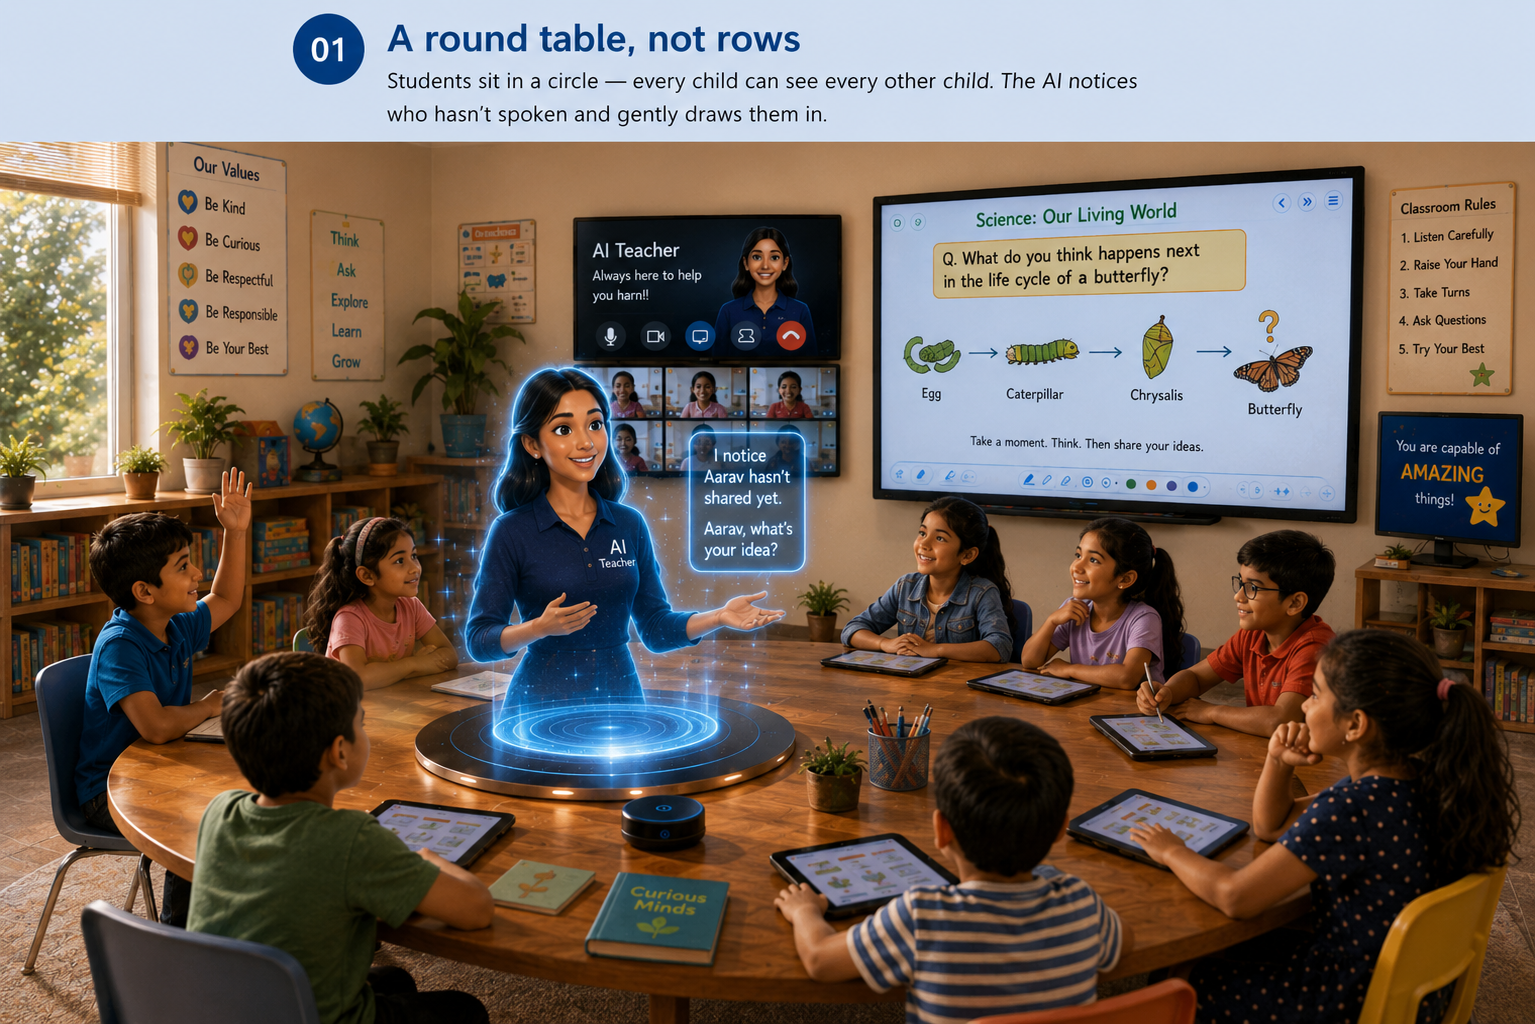
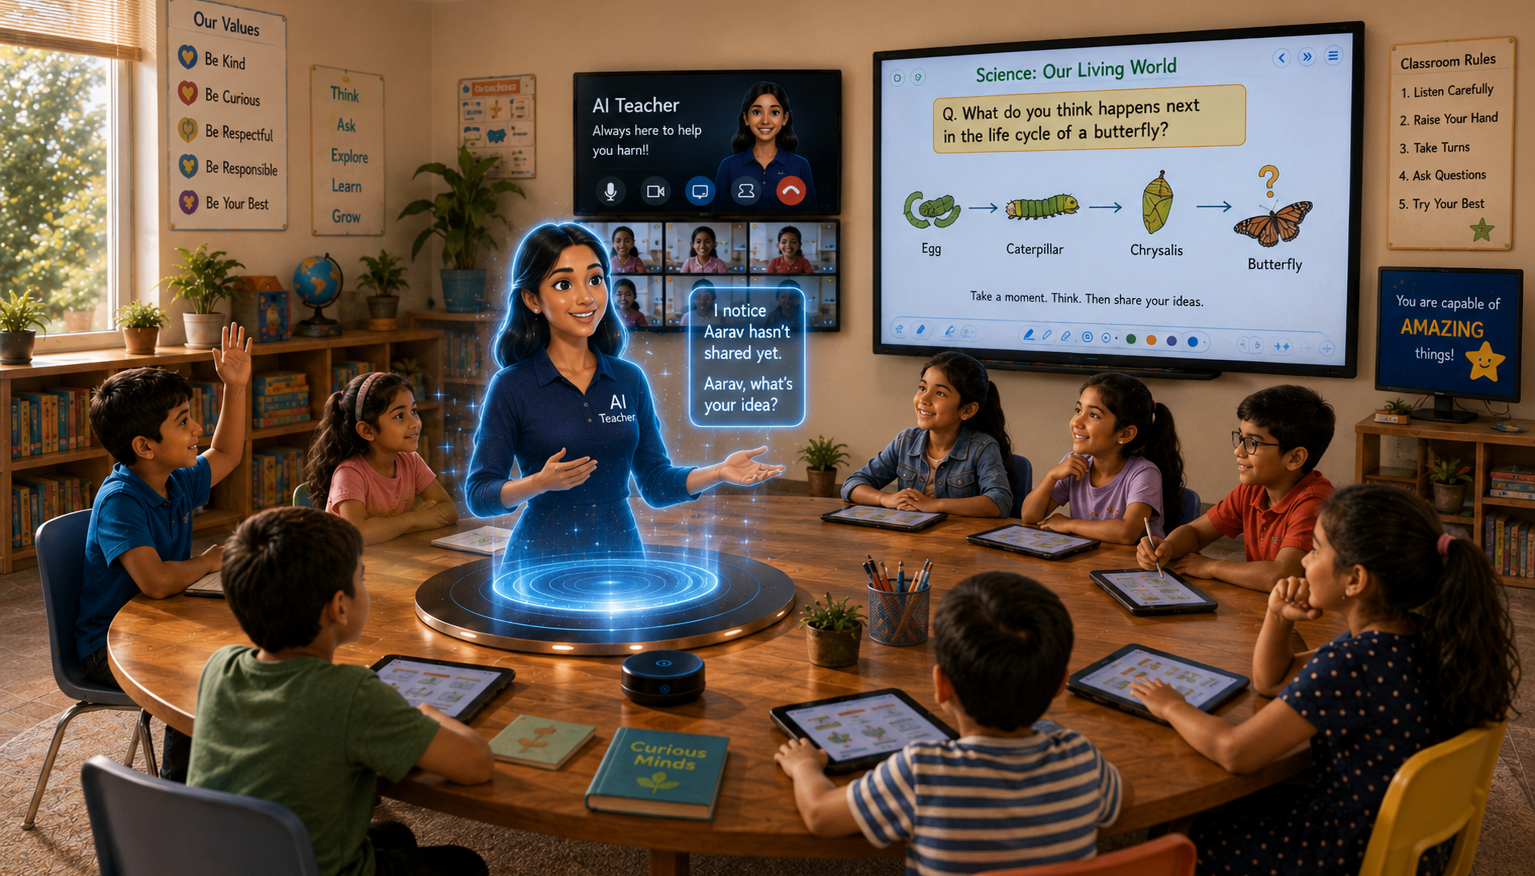
ai guru

diff --git a/app/globals.css b/app/globals.css
@@ -108,7 +108,7 @@ nav.main-nav {
 /* Mobile hamburger */
 .nav-right { display: flex; align-items: center; gap: 10px; }
 .nav-toggle { display: none; background: transparent; border: none; flex-direction: column; gap: 5px; padding: 8px; cursor: pointer; }
-.nav-toggle span { width: 22px; height: 2px; background: var(--navy); border-radius: 2px; transition: transform .2s; }
+.nav-toggle span { width: 22px; height: 2px; background: rgba(255,255,255,.85); border-radius: 2px; transition: transform .2s; }
 
 @media(max-width:820px){
   .main-nav {
@@ -116,24 +116,46 @@ nav.main-nav {
     height: 58px !important;
     top: 0 !important; left: 0 !important; right: 0 !important;
     margin: 0 !important; border-radius: 0 !important;
+    /* navbar itself NEVER moves — only the dropdown below it changes */
   }
-  .nav-logo { font-size: 1rem; min-width: 10px ; flex-shrink: 1; }
+  .nav-logo { font-size: 1rem; min-width: 10px; flex-shrink: 1; }
   .nav-logo-mark { width: 32px; height: 32px; font-size: .95rem; flex-shrink: 0; }
   .nav-logo-text { font-size: .9rem; white-space: nowrap; overflow: visible; max-width: none; }
   .nav-toggle { display: flex; flex-shrink: 0; }
   .nav-cta { padding: 7px 13px !important; font-size: .72rem !important; }
+
+  /* Dropdown: fixed directly below navbar, collapses DOWNWARD via max-height.
+     Never uses translateY so it can never slide through/above the navbar. */
   .nav-links {
-    position: fixed; top: 58px; left: 0; right: 0;
-    background: #ffffff; backdrop-filter: none;
-    flex-direction: column; gap: 0; padding: 12px 0;
-    border-bottom: 2px solid rgba(245,166,35,.2);
-    box-shadow: 0 8px 24px rgba(0,0,0,.08);
-    transform: translateY(-120%); transition: transform .3s cubic-bezier(.22,1,.36,1);
-    z-index: 99;
+    position: fixed;
+    top: 58px;          /* sits flush below the 58px navbar */
+    left: 0; right: 0;
+    z-index: 998;       /* below navbar (999) so it can never cover it */
+    flex-direction: column;
+    gap: 0;
+    background: #0d1a2e;
+    backdrop-filter: blur(16px);
+    border-bottom: 1px solid rgba(245,166,35,.15);
+    box-shadow: 0 12px 32px rgba(0,0,0,.4);
+    /* collapse state: height shrinks to 0, content clipped */
+    max-height: 0;
+    overflow: hidden;
+    transition: max-height 0.32s cubic-bezier(.22,1,.36,1);
+    /* no transform — navbar will never be affected */
+    transform: none;
   }
-  .nav-links.nav-open { transform: translateY(0); }
+  .nav-links.nav-open {
+    max-height: 260px;  /* enough for 3-5 links with padding */
+  }
   .nav-links li { width: 100%; }
-  .nav-links a { display: block; padding: 12px 20px; font-size: .92rem; color: rgba(5,13,26,.7); }
+  .nav-links a {
+    display: block;
+    padding: 14px 20px;
+    font-size: .92rem;
+    color: rgba(255,255,255,.78);
+    transition: color .15s, background .15s;
+  }
+  .nav-links a:hover { color: var(--gold); background: rgba(255,255,255,.04); }
 }
 
 /* ══ HERO ══ */
@@ -1449,14 +1471,48 @@ body { background:#07111f; color:#e8edf5; }
 .lp-btn-ghost:hover { background:rgba(255,255,255,.12); }
 .lp-btn-lg { padding:17px 42px; font-size:1rem; }
 .lp-list { list-style:none; padding:0; margin:20px 0 0; }
-.lp-list li { position:relative; padding:11px 16px 11px 42px; margin-bottom:8px; border:1px solid rgba(255,255,255,.06); border-radius:14px; background:rgba(255,255,255,.03); color:rgba(255,255,255,.68); font-size:.93rem; line-height:1.5; transition:background .15s,border-color .15s; }
+.lp-list li { position:relative; padding:11px 16px 11px 42px; margin-bottom:8px; border:1px solid rgba(255,255,255,.06); border-radius:14px; background:rgba(255,255,255,.03); color:rgba(255,255,255,.72); font-size:.98rem; line-height:1.55; transition:background .15s,border-color .15s; }
 .lp-list li::before { content:'\2713'; position:absolute; left:12px; top:10px; width:20px; height:20px; border-radius:50%; background:linear-gradient(135deg,#4f7df3,#6c5ce7); color:#fff; font-size:.68rem; font-weight:900; display:flex; align-items:center; justify-content:center; }
 .lp-list li:hover { background:rgba(255,255,255,.055); border-color:rgba(79,125,243,.3); }
-.lp-list-sm li { padding:9px 14px 9px 38px; font-size:.88rem; }
+.lp-list-sm li { padding:9px 14px 9px 38px; font-size:.93rem; }
 .lp-live-dot { display:inline-block; width:8px; height:8px; border-radius:50%; background:#22c55e; box-shadow:0 0 8px #22c55e; flex-shrink:0; }
 
 /* ── HERO — image first, text overlaid ── */
-.lp-hero { background:#07111f; }
+.lp-hero {
+  background: #07111f;
+  position: relative;
+  overflow: hidden;
+}
+/* animated background glow orbs */
+.lp-hero::before {
+  content: '';
+  position: absolute;
+  width: 680px; height: 680px;
+  border-radius: 50%;
+  background: radial-gradient(circle, rgba(245,166,35,.13) 0%, transparent 65%);
+  top: -180px; right: 8%;
+  animation: lp-orb-a 9s ease-in-out infinite;
+  pointer-events: none; z-index: 0;
+}
+.lp-hero::after {
+  content: '';
+  position: absolute;
+  width: 460px; height: 460px;
+  border-radius: 50%;
+  background: radial-gradient(circle, rgba(79,125,243,.1) 0%, transparent 65%);
+  bottom: -80px; left: 4%;
+  animation: lp-orb-b 12s ease-in-out infinite;
+  pointer-events: none; z-index: 0;
+}
+@keyframes lp-orb-a {
+  0%,100% { transform: translateY(0) scale(1); opacity: .9; }
+  50%      { transform: translateY(-50px) scale(1.12); opacity: 1; }
+}
+@keyframes lp-orb-b {
+  0%,100% { transform: translateY(0) scale(1); opacity: .7; }
+  50%      { transform: translateY(36px) scale(.88); opacity: 1; }
+}
+
 .lp-hero-fullimg {
   max-width: 1180px;
   margin: 0 auto;
@@ -1464,17 +1520,26 @@ body { background:#07111f; color:#e8edf5; }
   display: flex;
   flex-direction: row;
   align-items: center;
-  gap: 56px;
+  gap: 48px;
   min-height: 600px;
+  position: relative; z-index: 1;
 }
-.lp-hero-img { flex: 0 0 50%; width: 50%; height: auto; max-height: 520px; object-fit: contain; object-position: center; display: block; border-radius: 16px; }
+.lp-hero-img {
+  flex: 0 0 56%; width: 56%; height: auto; max-height: 560px;
+  object-fit: contain; object-position: center; display: block; border-radius: 16px;
+  animation: hero-float 7s ease-in-out infinite;
+}
+@keyframes hero-float {
+  0%,100% { transform: translateY(0px); }
+  50%      { transform: translateY(-14px); }
+}
 .lp-hero-veil { display:none; }
 .lp-hero-over { position:relative; z-index:2; display:flex; flex-direction:column; justify-content:center; flex:1; min-width:0; }
 .lp-hero-over.container { max-width:none; margin:0; padding:0; }
 .lp-hero-sub-mobile { display:none; }
 .lp-btn-gold-desktop { display:inline-flex; }
-.lp-h1 { font-size:clamp(2.6rem,5.5vw,4.8rem); font-weight:900; line-height:1.08; letter-spacing:-.03em; color:#fff; margin-bottom:20px; }
-.lp-hero-sub { color:rgba(255,255,255,.65); font-size:1.05rem; line-height:1.6; max-width:600px; margin-bottom:32px; }
+.lp-h1 { font-size:clamp(1.9rem,3.2vw,3.2rem); font-weight:900; line-height:1.12; letter-spacing:-.03em; color:#fff; margin-bottom:18px; }
+.lp-hero-sub { color:rgba(255,255,255,.65); font-size:1.02rem; line-height:1.65; max-width:480px; margin-bottom:28px; }
 .lp-hero-btns { display:flex; gap:14px; flex-wrap:wrap; }
 .lp-btn-ghost-desktop { display:inline-flex; }
 .lp-hero-corner-tag { display:none; }
@@ -1638,14 +1703,58 @@ body { background:#07111f; color:#e8edf5; }
 /* ── FEATURE SECTION (image big + body) ── */
 .lp-feature { padding:100px 0; background:#07111f; }
 .lp-feature-alt { background:#050e1a; }
-.lp-feat-grid { display:grid; grid-template-columns:1.25fr 1fr; gap:72px; align-items:center; }
-.lp-feat-flip { direction:rtl; }
-.lp-feat-flip > * { direction:ltr; }
-.lp-feat-img-big { position:relative; border-radius:24px; overflow:hidden; box-shadow:0 32px 72px -20px rgba(0,0,0,.8),0 0 0 1px rgba(255,255,255,.06); }
-.lp-feat-img-big img { width:100%; height:520px; object-fit:cover; display:block; }
+
+/* Desktop: flex row — image 56%, body fills rest */
+.lp-feat-grid {
+  display: flex;
+  flex-direction: row;
+  align-items: center;
+  gap: 60px;
+}
+.lp-feat-img-big { flex: 0 0 56%; width: 56%; }
+.lp-feat-body    { flex: 1; min-width: 0; }
+/* mobile-only heading hidden on desktop */
+.lp-feat-head-mob  { display: none; }
+/* desktop heading inside body — shown on desktop */
+.lp-feat-head-desk { display: block; }
+
+/* flip: image on right */
+.lp-feat-flip { flex-direction: row-reverse; }
+
+.lp-feat-img-big {
+  position:relative; border-radius:20px; overflow:hidden;
+  box-shadow:0 32px 72px -20px rgba(0,0,0,.8),0 0 0 1px rgba(255,255,255,.06);
+  background: #050d1a;
+}
+/* Full image — no cropping */
+.lp-feat-img-big img { width:100%; height:auto; object-fit:contain; display:block; }
 .lp-feat-tag { position:absolute; bottom:20px; left:20px; padding:8px 16px; border-radius:40px; background:rgba(0,0,0,.72); backdrop-filter:blur(12px); border:1px solid rgba(255,255,255,.12); font-size:.8rem; font-weight:600; color:rgba(255,255,255,.9); }
-.lp-feat-body p { color:rgba(255,255,255,.5); font-size:.97rem; line-height:1.68; margin-bottom:8px; }
-@media(max-width:860px){ .lp-feature { padding:64px 0; } .lp-feat-grid { grid-template-columns:1fr; gap:40px; } .lp-feat-flip { direction:ltr; } .lp-feat-img-big img { height:300px; } }
+.lp-feat-body p { color:rgba(255,255,255,.55); font-size:1rem; line-height:1.7; margin-bottom:8px; }
+
+/* Mobile: heading → image → body text, all left-aligned */
+@media(max-width:860px){
+  .lp-feature { padding:56px 0; }
+  .lp-feat-grid {
+    flex-direction: column;
+    gap: 22px;
+  }
+  .lp-feat-head-mob {
+    display: block;
+    order: 1;
+    text-align: left;
+    width: 100%;
+  }
+  .lp-feat-head-desk { display: none !important; }
+  .lp-feat-img-big {
+    order: 2;
+    flex: none;
+    width: 100%;
+  }
+  .lp-feat-body { order: 3; width: 100%; }
+  .lp-feat-flip .lp-feat-head-mob { order: 1; }
+  .lp-feat-flip .lp-feat-img-big  { order: 2; }
+  .lp-feat-flip .lp-feat-body     { order: 3; }
+}
 
 /* ── WIDE SECTIONS (Computer Science, JEE) — desktop side-by-side ── */
 .lp-wide { background:#07111f; padding: 0; }
@@ -1659,10 +1768,10 @@ body { background:#07111f; color:#e8edf5; }
   gap: 64px;
 }
 .lp-wide-img {
-  flex: 0 0 48%;
-  width: 48%;
+  flex: 0 0 56%;
+  width: 56%;
   height: auto;
-  max-height: 480px;
+  max-height: 560px;
   object-fit: contain;
   border-radius: 16px;
   display: block;
@@ -1684,9 +1793,9 @@ body { background:#07111f; color:#e8edf5; }
   justify-content: center;
   order: 1;
 }
-.lp-wide-p { color:rgba(255,255,255,.65); font-size:.97rem; line-height:1.68; margin:10px 0 20px; }
+.lp-wide-p { color:rgba(255,255,255,.68); font-size:1.02rem; line-height:1.68; margin:10px 0 20px; }
 .lp-wide-bullets { list-style:none; padding:0; margin:0; }
-.lp-wide-bullets li { color:rgba(255,255,255,.7); font-size:.96rem; line-height:1.5; padding:9px 0 9px 26px; position:relative; border-bottom:1px solid rgba(255,255,255,.06); }
+.lp-wide-bullets li { color:rgba(255,255,255,.74); font-size:1rem; line-height:1.55; padding:9px 0 9px 26px; position:relative; border-bottom:1px solid rgba(255,255,255,.06); }
 .lp-wide-bullets li::before { content:''; position:absolute; left:0; top:17px; width:8px; height:8px; border-radius:50%; background:#fbbf24; box-shadow:0 0 10px rgba(251,191,36,.6); }
 .lp-wide-bullets li:last-child { border-bottom:none; }
 
@@ -1694,10 +1803,31 @@ body { background:#07111f; color:#e8edf5; }
 .lp-wide-flip .lp-wide-img { order: 1; }
 .lp-wide-flip .lp-wide-content { order: 2; }
 
+/* mobile-only heading blocks (hidden on desktop) */
+.lp-wide-head-mob  { display: none; }
+.lp-wide-head-desk { display: block; }
+
 @media(max-width:860px){
-  .lp-wide-img-wrap { flex-direction: column; padding: 60px 18px; gap: 32px; }
-  .lp-wide-img { flex: none; width: 100%; max-height: 280px; order: 1 !important; }
-  .lp-wide-content { order: 2 !important; }
+  .lp-wide-img-wrap {
+    flex-direction: column;
+    padding: 52px 18px;
+    gap: 20px;
+  }
+  /* mobile: heading → image → body */
+  .lp-wide-head-mob {
+    display: block;
+    order: 1;
+    text-align: left;
+    width: 100%;
+  }
+  .lp-wide-head-desk { display: none !important; }
+  .lp-wide-img {
+    flex: none;
+    width: 100% !important;
+    max-height: 260px;
+    order: 2 !important;
+  }
+  .lp-wide-content { order: 3 !important; }
 }
 
 /* ── CAROUSEL ── */
@@ -1830,8 +1960,17 @@ body { background:#07111f; color:#e8edf5; }
 .lp-footer-bottom { border-top:1px solid rgba(255,255,255,.05); padding:18px 0; }
 .lp-footer-bottom-row { display:flex; justify-content:space-between; align-items:center; flex-wrap:wrap; gap:10px; }
 .lp-footer-bottom-row p { font-size:.78rem; color:rgba(255,255,255,.2); }
-@media(max-width:900px){ .lp-footer-grid { grid-template-columns:1fr 1fr; gap:36px; padding:48px 0 36px; } .lp-footer-brand { grid-column:1/-1; } }
-@media(max-width:520px){ .lp-footer-grid { grid-template-columns:1fr; } .lp-footer-brand { grid-column:auto; } }
+@media(max-width:900px){
+  .lp-footer-grid { grid-template-columns:1fr 1fr; gap:32px; padding:48px 0 36px; }
+  .lp-footer-brand { grid-column:1/-1; }
+}
+@media(max-width:520px){
+  /* 2×2: brand full-width, then Experience+Parents side by side, Contact below */
+  .lp-footer-grid { grid-template-columns:1fr 1fr; gap:24px; padding:40px 0 28px; }
+  .lp-footer-brand { grid-column:1/-1; }
+  /* Contact is the 4th child — spans full width */
+  .lp-footer-col:last-child { grid-column:1/-1; }
+}
 
 /* ══════════════════════════════════════════════════════════════
    MOBILE POLISH — LANDING PAGE
@@ -1899,17 +2038,11 @@ body { background:#07111f; color:#e8edf5; }
   .lp-how-img-wrap { animation: none !important; }
 }
 
-/* ── FEATURE sections: tighter image + body spacing ── */
+/* ── FEATURE sections: mobile spacing ── */
 @media(max-width:860px){
-  .lp-feature { padding: 56px 0 !important; }
-  .lp-feat-grid { gap: 28px !important; }
-  .lp-feat-img-big { border-radius: 18px !important; }
-  .lp-feat-img-big img { height: 260px !important; }
+  .lp-feat-img-big { border-radius: 16px !important; }
   .lp-feat-tag { font-size: .72rem !important; padding: 6px 12px !important; bottom: 14px !important; left: 14px !important; }
   .lp-feat-body p { font-size: .9rem !important; line-height: 1.6 !important; }
-}
-@media(max-width:480px){
-  .lp-feat-img-big img { height: 220px !important; }
 }
 
 /* ── WIDE sections mobile ── */

diff --git a/app/page.tsx b/app/page.tsx
@@ -345,13 +345,17 @@ export default function HomePage() {
       {/* ══ FEATURE — Biology ══ */}
       <section id="classroom" className="lp-feature">
         <div className="container lp-feat-grid reveal-l">
+          <div className="lp-feat-head-mob">
+            <span className="lp-eyebrow">Inside the Classroom</span>
+            <h2 className="lp-h2-sm">Real subjects.<br /><span className="lp-gold">Real curiosity.</span></h2>
+          </div>
           <div className="lp-feat-img-big">
             <img src={IMG.biology} alt="Biology classroom" />
             <div className="lp-feat-tag">🧬 Biology · Live Dialogue Session</div>
           </div>
           <div className="lp-feat-body reveal-r">
-            <span className="lp-eyebrow">Inside the Classroom</span>
-            <h2 className="lp-h2-sm">Real subjects.<br /><span className="lp-gold">Real curiosity.</span></h2>
+            <span className="lp-eyebrow lp-feat-head-desk">Inside the Classroom</span>
+            <h2 className="lp-h2-sm lp-feat-head-desk">Real subjects.<br /><span className="lp-gold">Real curiosity.</span></h2>
             <p>Students don&apos;t just read about photosynthesis — they argue about it. The AI draws the process live on the ink board as the class figures it out together.</p>
             <ul className="lp-list">
               <li>Every diagram drawn <strong>live</strong> alongside student thinking</li>
@@ -365,10 +369,14 @@ export default function HomePage() {
       {/* ══ WIDE — Computer Science ══ */}
       <section className="lp-wide">
         <div className="lp-wide-img-wrap">
-          <img src={IMG.computer} alt="Computer Science classroom" className="lp-wide-img" />
-          <div className="lp-wide-content reveal">
+          <div className="lp-wide-head-mob">
             <span className="lp-eyebrow lp-eyebrow-lite">Computer Science</span>
             <h2 className="lp-h2 lp-h2-white">Build. Break.<br /><span className="lp-accent">Rebuild better.</span></h2>
+          </div>
+          <img src={IMG.computer} alt="Computer Science classroom" className="lp-wide-img" />
+          <div className="lp-wide-content reveal">
+            <span className="lp-wide-head-desk lp-eyebrow lp-eyebrow-lite">Computer Science</span>
+            <h2 className="lp-wide-head-desk lp-h2 lp-h2-white">Build. Break.<br /><span className="lp-accent">Rebuild better.</span></h2>
             <p className="lp-wide-p">From Grade 4 onwards — students write real code, design real products, and present to the class. The AI asks: <em>&ldquo;Why did you choose that approach?&rdquo;</em></p>
             <ul className="lp-wide-bullets">
               <li>Code as a creative act — not a memorisation exercise</li>
@@ -382,9 +390,13 @@ export default function HomePage() {
       {/* ══ FEATURE — History ══ */}
       <section className="lp-feature lp-feature-alt">
         <div className="container lp-feat-grid lp-feat-flip reveal-r">
-          <div className="lp-feat-body reveal-l">
+          <div className="lp-feat-head-mob">
             <span className="lp-eyebrow">History</span>
             <h2 className="lp-h2-sm">Not a story to memorise.<br /><span className="lp-gold">A debate to win.</span></h2>
+          </div>
+          <div className="lp-feat-body reveal-l">
+            <span className="lp-eyebrow lp-feat-head-desk">History</span>
+            <h2 className="lp-h2-sm lp-feat-head-desk">Not a story to memorise.<br /><span className="lp-gold">A debate to win.</span></h2>
             <p>Students argue both sides of a historical event. Mock trials. &ldquo;What would <em>you</em> have done differently?&rdquo; — and they have to defend their answer to the room.</p>
             <ul className="lp-list">
               <li>Roleplays, mock trials, debates — every lesson</li>
@@ -438,10 +450,14 @@ export default function HomePage() {
       {/* ══ WIDE — Competitive Exams ══ */}
       <section className="lp-wide lp-wide-flip">
         <div className="lp-wide-img-wrap">
-          <img src={IMG.competitive} alt="Competitive Exam Prep" className="lp-wide-img" />
-          <div className="lp-wide-content reveal">
+          <div className="lp-wide-head-mob">
             <span className="lp-eyebrow lp-eyebrow-lite">JEE · NEET · CLAT</span>
             <h2 className="lp-h2 lp-h2-white">The exam isn&apos;t the goal.<br /><span className="lp-accent">Understanding is.</span></h2>
+          </div>
+          <img src={IMG.competitive} alt="Competitive Exam Prep" className="lp-wide-img" />
+          <div className="lp-wide-content reveal">
+            <span className="lp-wide-head-desk lp-eyebrow lp-eyebrow-lite">JEE · NEET · CLAT</span>
+            <h2 className="lp-wide-head-desk lp-h2 lp-h2-white">The exam isn&apos;t the goal.<br /><span className="lp-accent">Understanding is.</span></h2>
             <p className="lp-wide-p">Students who understand deeply score better than students who practice blindly. Our 1:10 pods build real comprehension — the marks follow on their own.</p>
             <ul className="lp-wide-bullets">
               <li>Dedicated entrance exam pods — 1:10 ratio always maintained</li>
@@ -465,7 +481,7 @@ export default function HomePage() {
           <div className="lp-badge lp-badge-gold">📋 2-minute Parent Survey — Open Now</div>
           <h2 className="lp-h2 lp-h2-white">Help us build the school<br /><span className="lp-accent">your child actually deserves.</span></h2>
           <p className="lp-cta-p">We&apos;re speaking to parents, students and teachers before building anything. Your answers shape what gets built. Under 2 minutes, no sign-up needed.</p>
-          <button className="lp-btn-gold lp-btn-lg" onClick={() => setShowSurvey(true)}>Start the Survey →</button>
+          <button className="lp-btn-gold lp-btn-lg" onClick={() => setShowSurvey(true)}>Register for Class →</button>
         </div>
       </section>
 
